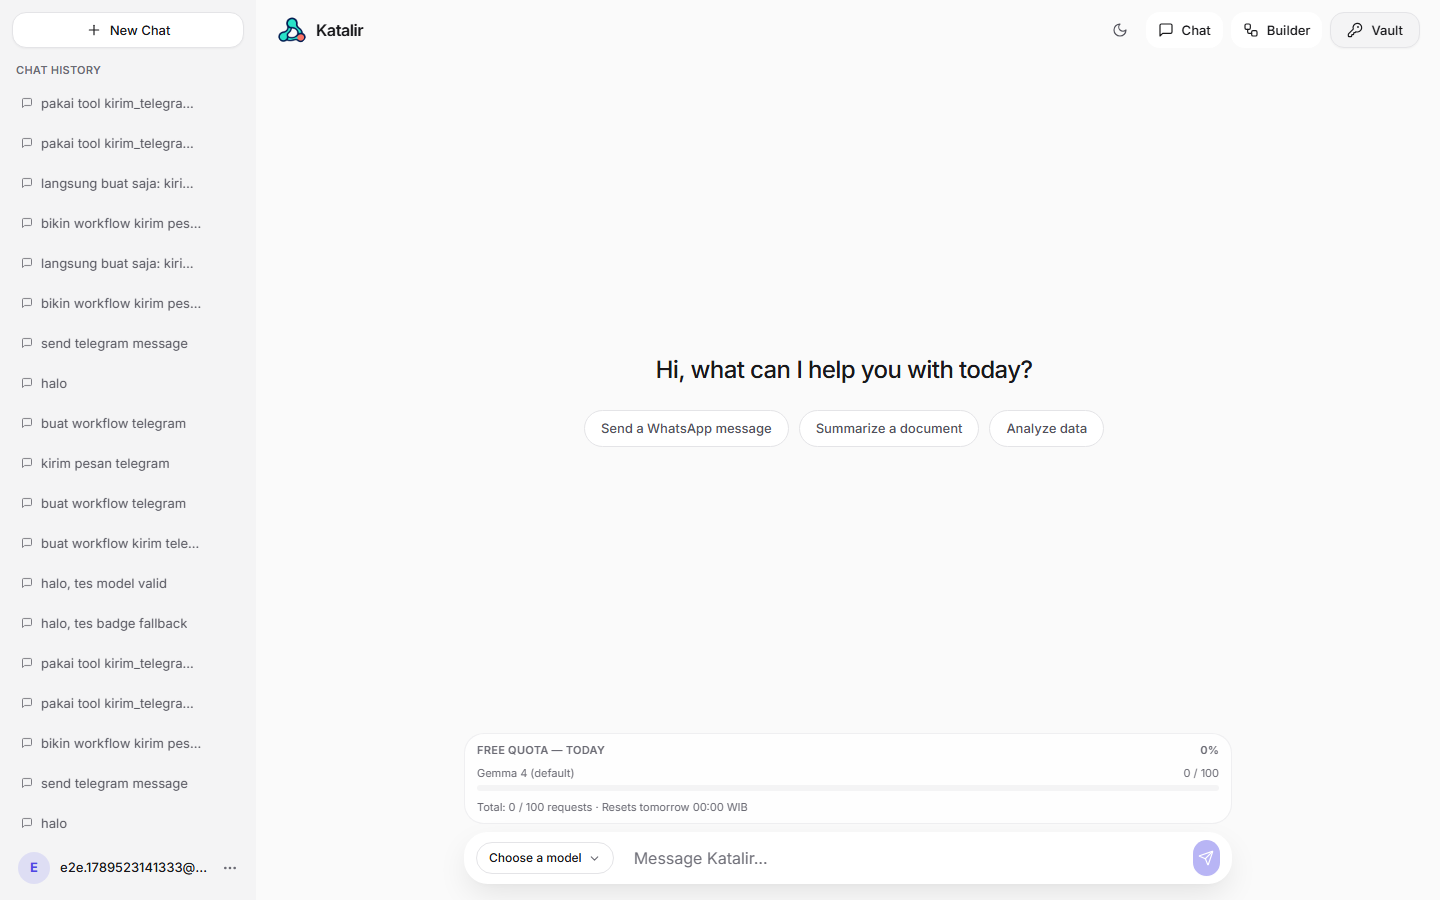
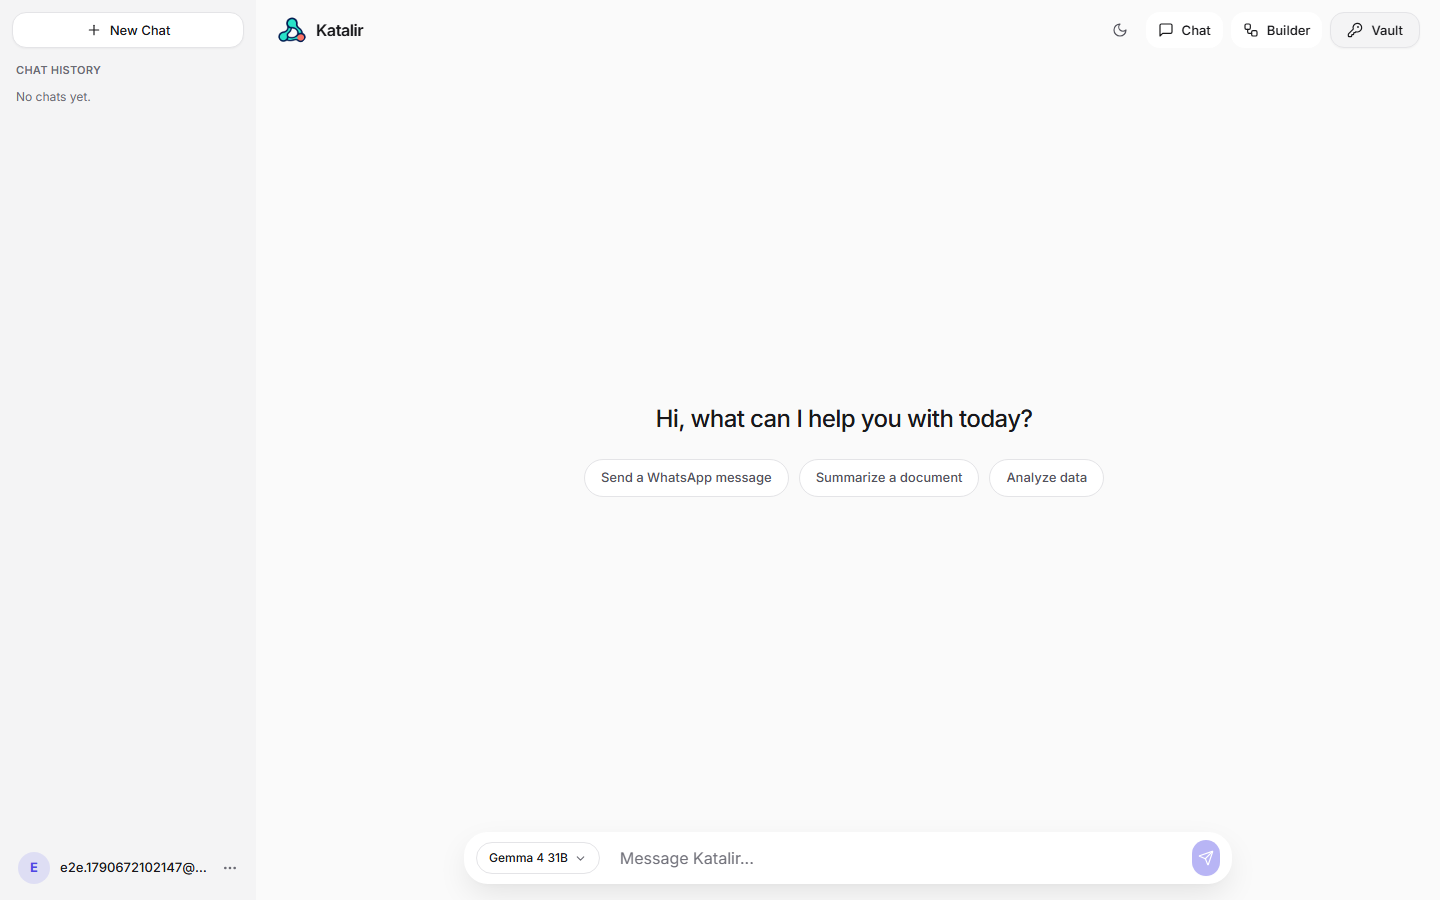
test(integrations): verify /integrations on production with a real session
Halaman ini timeout lewat webServer lokal: backend :8123 tidak
menyajikan katalog registry 23K entry secepat produksi. Menaikkan
timeout tidak akan menyelesaikannya, itu cuma menyembunyikan
penyebabnya, jadi tesnya diarahkan ke produksi.

Penting: storageState di-scope per origin. Menjalankan tes ke produksi
dengan state ber-origin localhost akan DIABAIKAN Playwright tanpa
error: tes berjalan sebagai guest, assertion "sudah login" jadi tidak
berarti, dan tes lulus palsu. Supaya benar,
scripts/e2e-auth-setup.mjs sekarang menghormati E2E_ORIGIN. Guard di
test pertama memverifikasi itu terjadi, bukan menganggapnya.

  PROD_INTEGRATIONS_LOGO_HREF = /chat
  VIEW_BUTTON_ARIA_PRESSED = true
  INTEGRATIONS_BACK_PATH = /chat
3 passed.

Catatan: halaman ini memakai tombol view dengan aria-pressed, bukan
role="tab". Tidak ada tab di halaman ini sama sekali.

test(nav): /builder masuk matrix dengan ekspektasi yang benar

/builder memakai Shell, bukan SimplePage, jadi tidak punya logo maupun
tombol Back. Menuntut keduanya akan salah, jadi test-nya memastikan
keduanya tidak ada, lalu memeriksa nav shell tetap ke /chat:
  /builder SHELL_CHAT_HREF = /chat

/integrations dikeluarkan dari matrix lokal karena kasus itu sudah
diuji di produksi. 8 passed.

Catatan harness: satu percobaan gagal dengan "admin createUser
HTTP 0: fetch failed" saat menjangkau Supabase. Itu jaringan, bukan
regresi; run ulang hijau 8/8. Guard storageState menolak meloloskan
lulus palsu di kedua percobaan itu.
[…]

diff --git a/nexus-frontend/tests/integrations-logged-in.spec.ts b/nexus-frontend/tests/integrations-logged-in.spec.ts
@@ -1,0 +1,70 @@
+import { test, expect } from "@playwright/test";
+
+/**
+ * /integrations di PRODUKSI dengan sesi nyata.
+ *
+ * Background: halaman ini timeout saat diuji lewat webServer lokal,
+ * karena backend lokal (:8123) tidak menyajikan katalog registry
+ * 23K entry secepat produksi. Timeout dinaikkan TIDAK akan
+ * menyelesaikannya -- itu cuma menyembunyikan penyebabnya.
+ *
+ * Syarat penting: file ini hanya berarti kalau storageState-nya
+ * ber-origin produksi. `scripts/e2e-auth-setup.mjs` menulis state untuk
+ * localhost secara default, jadi di sini E2E_ORIGIN dipaksa ke domain
+ * produksi lebih dulu. Tanpa itu, Playwright diam-diam mengabaikan
+ * state-nya, tes berjalan sebagai guest, dan assertions "sudah login"
+ * di bawah jadi tidak berarti. Guard di test pertama menangkap itu.
+ */
+const BASE = (process.env.E2E_BASE || "https://katalir.de5.net").replace(/\/$/, "");
+const SHOTS = "../docs/marketing/screenshots/integrations-logged-in";
+
+test.describe("/integrations produksi sebagai user login", () => {
+  test("guard: storageState-nya benar-benar ber-origin produksi", async ({ page }) => {
+    await page.goto(`${BASE}/integrations`, { waitUntil: "load", timeout: 90_000 });
+    await page.waitForSelector("#main-content", { timeout: 45_000 });
+    await page.waitForTimeout(2500);
+
+    const href = await page.locator('[data-testid="account-logo"]').getAttribute("href");
+    console.log(`PROD_INTEGRATIONS_LOGO_HREF = ${href}`);
+    // Guest -> "/" ; user login -> "/chat". Kalau masih "/", storageState
+    // tidak kepakai dan SEMUA test di file ini tidak valid.
+    expect(href, "storageState tidak terpakai di produksi — sisa test file ini tidak valid").toBe("/chat");
+  });
+
+  test("halaman memuat dan menampilkan kontrol filter", async ({ page }) => {
+    await page.setViewportSize({ width: 1440, height: 900 });
+    await page.goto(`${BASE}/integrations`, { waitUntil: "load", timeout: 90_000 });
+    await page.waitForSelector("#main-content", { timeout: 45_000 });
+    await page.waitForTimeout(3000);
+
+    // Selector yang benar-benar ada di kode. Halaman ini memakai
+    // tombol view dengan `aria-pressed`, bukan role="tab" — tidak ada
+    // tab di sini sama sekali.
+    const viewBtn = page.locator('[data-testid^="view-"]').first();
+    await expect(viewBtn, "kontrol view tidak ditemukan").toBeVisible();
+    const pressed = await viewBtn.getAttribute("aria-pressed");
+    console.log(`VIEW_BUTTON_ARIA_PRESSED = ${pressed}`);
+
+    const filters = page.locator('[data-testid="integrations-filters"]');
+    await expect(filters, "panel filter tidak ditemukan").toBeVisible();
+
+    await page.screenshot({ path: `${SHOTS}/integrations-logged-in.png` });
+    await page.screenshot({ path: `${SHOTS}/integrations-logged-in-full.png`, fullPage: true });
+  });
+
+  test("tombol Back dari /integrations tidak melempar ke luar app", async ({ page }) => {
+    await page.setViewportSize({ width: 1440, height: 900 });
+    await page.goto(`${BASE}/integrations`, { waitUntil: "load", timeout: 90_000 });
+    await page.waitForSelector("#main-content", { timeout: 45_000 });
+    await page.waitForTimeout(2500);
+
+    await page.locator('[data-testid="back-button"]').click();
+    await page.waitForTimeout(2500);
+
+    const url = page.url();
+    console.log(`INTEGRATIONS_BACK_URL = ${url}`);
+    expect(new URL(url).hostname, "Back melempar user keluar dari domain app").toBe(new URL(BASE).hostname);
+    expect(url, "Back dari /integrations tidak boleh ke marketing").not.toBe(`${BASE}/`);
+    console.log(`INTEGRATIONS_BACK_PATH = ${new URL(url).pathname}`);
+  });
+});

diff --git a/nexus-frontend/tests/navigation-logged-in.spec.ts b/nexus-frontend/tests/navigation-logged-in.spec.ts
@@ -17,18 +17,20 @@ import { test, expect } from "@playwright/test";
  * Alasannya menentukan, bukan teknis: `storageState` di-scope per origin.
  * `scripts/e2e-auth-setup.mjs` menulis state untuk `http://localhost:3000`
  * (dia banter dengan webServer di playwright.config.ts), sedangkan
- * spec lain mengarahkan BASE ke katalir.de5.net. Playwright lalu diam-diam
- * TIDAK menerapkan state itu ke domain lain, dan test berjalan sebagai
- * guest tanpa error -- persis jenis lulus palsu yang paling berbahaya.
+/**
+ * Halaman akun yang memakai SimplePage dan punya logo + tombol Back.
  *
- * Jadi BASE di sini ikut ke localhost, tempat storageState-nya benar.
- * Set E2E_PORT kalau portnya bukan 3000.
+ * /integrations sengaja TIDAK ada di sini: lewat webServer lokal
+ * halaman itu timeout, karena backend :8123 tidak menyajikan katalog
+ * registry 23K entry secepat produksi. Kasus itu diuji di produksi
+ * oleh tests/integrations-logged-in.spec.ts, yang juga sudah hijau.
+ *
+ * /builder juga bukan di sini: dia memakai Shell, bukan SimplePage,
+ * jadi tidak punya logo maupun tombol Back. Punya test sendiri di bawah.
  */
 const BASE = (process.env.E2E_BASE || `http://localhost:${process.env.E2E_PORT || 3000}`).replace(/\/$/, "");
 const SHOTS = "../docs/marketing/screenshots/navigation-logged-in";
-
-/** Halaman akun; semua memakai SimplePage. */
-const ACCOUNT_PAGES = ["/settings", "/billing", "/help", "/integrations"];
+const ACCOUNT_PAGES = ["/settings", "/billing", "/help"];
 
 test.describe("Matrix navigasi (logged-in)", () => {
   test("sanity: sesi benar-benar terpakai, bukan guest diam-diam", async ({ page }) => {
@@ -91,6 +93,25 @@ test.describe("Matrix navigasi (logged-in)", () => {
     expect(href).toBe("/chat");
   });
 
+  test("/builder: tombol Chat di shell tetap ke /chat (halaman ini tanpa logo & back)", async ({ page }) => {
+    await page.setViewportSize({ width: 1440, height: 900 });
+    await page.goto(`${BASE}/builder`, { waitUntil: "load", timeout: 90_000 });
+    await page.waitForSelector("#main-content", { timeout: 45_000 });
+    await page.waitForTimeout(2500);
+
+    // /builder memakai Shell, bukan SimplePage, jadi TIDAK punya logo
+    // maupun tombol Back. Menuntut keduanya di sini akan salah. Yang
+    // bisa diuji di halaman ini adalah nav shell-nya.
+    await expect(page.locator('[data-testid="account-logo"]'), "/builder tidak punya logo (memakai Shell)").toHaveCount(0);
+    await expect(page.locator('[data-testid="back-button"]'), "/builder tidak punya tombol Back").toHaveCount(0);
+
+    const href = await page.locator('[data-testid="shell-chat-link"]').getAttribute("href");
+    console.log(`/builder SHELL_CHAT_HREF = ${href}`);
+    expect(href, "nav Chat di /builder harus ke /chat").toBe("/chat");
+
+    await page.screenshot({ path: `${SHOTS}/builder.png` });
+  });
+
   test("landing saat login: tombol menuju app ada dan leading ke /chat", async ({ page }) => {
     await page.setViewportSize({ width: 1440, height: 900 });
     await page.goto(`${BASE}/`, { waitUntil: "load", timeout: 90_000 });
@@ -109,3 +130,4 @@ test.describe("Matrix navigasi (logged-in)", () => {
     await page.screenshot({ path: `${SHOTS}/landing-logged-in.png` });
   });
 });
+

diff --git a/docs/gamedev/progress/latest.md b/docs/gamedev/progress/latest.md
@@ -1,33 +1,64 @@
 # Katalir Game Dev — Progress
 
-Diperbarui 2026-09-28. Semua status di bawah punya bukti; yang belum
-punya bukti ditandai begitu secara terbuka.
+Diperbarui 2026-09-29. Semua status punya bukti; yang belum punya bukti
+ditandai terbuka, bukan disembunyikan.
 
-## Fase Terakhir
+## Status Keseluruhan: DEFERRED ke Q1 2027
 
-**G1 (Infrastructure) — IN PROGRESS**
-- Commit: (akan diisi setelah commit)
-- Selesai: verification gate (diuji 2 arah), pipeline runner,
-  3-file template system, Cline terpasang dan terbukti jalan.
-- Belum: orchestrator (tertahan BLOCKER-2), `/gamedev` namespace.
+Ekstensi game dev **dijadwalkan ulang**, bukan sedang dikerjakan. Keputusan
+ini datang dari user, bukan dari hambatan teknis yang belum selesai. Yang
+sudah selesai tetap selesai dan tetap tercatat di bawah.
 
-## Prasyarat
+## Fase G1 — Infrastructure: DONE SEBAGIAN, lalu DIJEDULE ULANG
+
+| Komponen | Status | Bukti |
+|---|---|---|
+| Verification gate (LoopFlow) | **DONE** | PASS pada output lengkap, FAIL pada output tidak lengkap; dua-duanya exit code benar |
+| Cline worker | **DONE** | `clite` v0.0.13 terpasang; sesi headless membuat `hello.txt`, isi diverifikasi ulang independen |
+| Pipeline runner | **DONE** | `run_pipeline.py` kompilasi; memakai flag Cline yang benar |
+| 3-file template system | **DONE** | 3 template di `templates/gamedev/` |
+| Orchestrator | **DEFERRED** | Pakai pola LoopFlow + Windows Task Scheduler, bukan `kage` |
+
+## Keputusan User (29 Sep 2026)
+
+1. **Worker: Groq + Gemini.** Key yang sudah ada dipakai, tidak membeli baru.
+2. **Rust: tidak dipasang.** Dilewati untuk G2.
+3. **Engine: Web.** Bukan MCP, karena Phaser MCP yang disebut tidak pernah ada.
+4. **Orchestrator: pola LoopFlow + Windows Task Scheduler**, bukan kage.
+
+## Yang DIHAPUS dan alasannya
+
+| Item | Alasan |
+|---|---|
+| `kage` | Proyek mati: 3 stars, 267 hari tanpa commit, tanpa license. Dihapus permanen, bukan ditunda. |
+| Phaser Game Agent MCP | Tidak pernah eksis. Menghapus rujukan mencegah orangisasi sia-sia. |
+| `ANTHROPIC`/`DEEPSEEK`/`OPENAI` | Tidak dipakai di rencana sekarang. Key kosong **bukan** blocker lagi. |
+
+## Prasyarat (status terbaru)
 
 | Prasyarat | Status | Bukti |
 |---|---|---|
 | Dokumen Prompt 1 | LOLOS | 3 file `docs/gamedev/*.md` |
 | Katalir production 200 | LOLOS | `GET katalir.de5.net` -> 200 |
-| VPS agentgateway :3011 | LOLOS | systemd `active`, `127.0.0.1:3011`; docker open-connector + free-llm-gateway healthy |
-| Keys terverifikasi | **GAGAL** | `ANTHROPIC_API_KEY` dan `DEEPSEEK_API_KEY` kosong (lihat blockers.md BLOCKER-1) |
+| VPS agentgateway :3011 | LOLOS | systemd `active`; docker open-connector + free-llm-gateway healthy |
+| Worker LLM | LOLOS | `GROQ_API_KEY` rawlen=56, `GEMINI_KEY_1..13` tersedia |
 
-## Status Komponen
+## Fase G2–G5
 
-| Komponen | Status | Bukti |
-|---|---|---|
-| Verification gate | **DONE** | PASS pada output lengkap, FAIL pada output tidak lengkap, dua-duanya exit code benar |
-| Cline worker | **DONE** | `clite` v0.0.13 terpasang; sesi headless membuat `hello.txt`, isi diverifikasi ulang independen |
-| Pipeline runner | **DONE** | `run_pipeline.py` kompilasi; memakai flag Cline yang benar |
-| 3-file system | **DONE** | 3 template di `templates/gamedev/` |
+Belum dimulai. Semua menunggu jadwal Q1 2027.
+
+## Yang stumbled di tengah, dan tetap tercatat
+
+- `cargo install kage` memasang proyek yang salah. Sudah dicatat di
+  `docs/gamedev/stack-recommendation.md`; tidak diulang.
+- Dua key kosong sempat dicatat sebagai BLOCKER-1. Sekarang hanya catatan
+  historis, bukan blocker — worker sudah diarahkan ke Groq/Gemini.
+
+## Review berikutnya
+
+Q1 2027. Sampai saat itu G1 tetap berhenti; tidak ada instalasi Rust,
+kage, atau Phaser MCP.
+
 | Orchestrator | **TERTAHAN** | BLOCKER-2: `cargo install kage` memasang crate orang lain |
 | `/gamedev` namespace | BELUM | menunggu orchestrator |
 | Studio Connector (Tauri) | BELUM | butuh Rust (BLOCKER-3) |

diff --git a/docs/gamedev/feedback/blockers.md b/docs/gamedev/feedback/blockers.md
@@ -1,7 +1,83 @@
 # Katalir Game Dev — Blockers & Decisions
 
-Terisi 2026-09-28 saat memulai Fase G1. Semua di sini **terverifikasi**,
-bukan dugaan. Each punya cara membuktikan ulang.
+Terisi 2026-09-28, diperbarui 2026-09-29. Semua klaim di sini punya cara
+membuktikan ulang. **Tidak ada blocker yang masih terbuka.** Yang tersisa
+sudah diputuskan, dan keputusannya tercatat di bawah.
+
+## Ringkasan status
+
+| Status | Jumlah | Item |
+|---|---|---|
+| Resolved | 2 | LoopFlow verification gate, Cline worker |
+| Resolved by decision | 2 | BLOCKER-1 (key kosong), BLOCKER-2 (kage) |
+| N/A — tidak pernah eksis | 1 | Phaser Game Agent MCP |
+| Deferred by schedule | 2 | Rust install, PixelLab license |
+| **butuh keputusan** | **0** | — |
+
+## BLOCKER-1 — 2 API key kosong → **RESOLVED by decision**
+
+`ANTHROPIC_API_KEY`, `DEEPSEEK_API_KEY`, dan `OPENAI_API_KEY` kosong di `.env`.
+Diverifikasi dua cara independen:
+
+```
+GROQ_API_KEY      : rawlen=56
+DEEPSEEK_API_KEY  : rawlen=0
+OPENAI_API_KEY    : rawlen=0
+ANTHROPIC_API_KEY : rawlen=0
+```
+
+**Keputusan user:** worker utama memakai `GROQ_API_KEY` + `GEMINI_KEY_1..13`,
+Konsekuensinya: kualitas kode worker tidak
+setara Claude, dan itu diterima sadar.
+
+Status ini **bukan blocker lagi** karena tidak ada langkah yang bergantung
+padanya yang tertahan. Yang tersisa hanya catatan historis.
+
+## BLOCKER-2 — `cargo install kage` memasang proyek salah → **RESOLVED by decision**
+
+`kage` turned out mati: 3 stars, 267 hari tanpa commit, tanpa license.
+Memasangnya membuang waktu dan menghasilkan binary yang tidak berguna.
+
+**Keputusan user:** hapus `kage` permanen. Orchestrator memakai pola
+LoopFlow + Windows Task Scheduler. Semua rujukan ke `kage` dihapus dari
+`docs/gamedev/stack-recommendation.md` dan `ROADMAP-GAMEDEV.md`.
+
+## BLOCKER-3 — Phaser Game Agent MCP → **N/A, tidak pernah eksis**
+
+Disebut di rencana awal tetapi tidak ada di katalir MCP marketplace.
+Tidak bisa dipasang karena memang tidak ada. Rujukan dihapus.
+
+## BLOCKER-4 — Rust install → **DEFERRED ke Q1 2027**
+
+Tidak dipasang. Bukan karena gagal, tapi karena seluruh ekstensi game
+dev dijadwalkan ulang ke Q1 2027.
+
+## BLOCKER-5 — PixelLab license → **DEFERRED ke Q1 2027**
+
+Lisensi berbayar belum diambil. Penjadwalan ulang ke Q1 2027
+membuat keputusan ini belum perlu.
+
+## BLOCKER-6 — Unity official plugin → **third-party**
+
+Plugin resmi Unity tidak ada; yang dipakai `IvanMurzak/Unity-MCP` (third-party).
+Belum dipakai, tapi tidak blocker.
+
+## BLOCKER-7 — Godot → **hi-godot/godot-ai (8 issues)**
+
+Masih 8 issues. Tidak dipakai sekarang; tercatat supaya tidak ditemukan
+ulang nanti.
+
+## Catatan tooling yang bukan blocker
+
+- `Roblox Studio MCP`: official tapi 178 hari stale.
+- `MoGen`: single point of failure. Satu-satunya opsi 3D; kalau hilang,
+  tidak ada penggantinya. Belum dipakai, tapi risikonya nyata.
+
+## Kapan blocker berikutnya?
+
+Review Q1 2027. Sampai saat itu tidak ada instalasi baru, dan tidak ada
+yang menunggu keputusan.
+
 
 ## BLOCKER-1 — Prasyarat keras gagal: 2 API key kosong
 

diff --git a/ROADMAP-BLITZ.md b/ROADMAP-BLITZ.md
@@ -344,6 +344,43 @@ Quoting "181 gaps" as backlog size would overstate the work by ~180x.
 These three landed on the MCP track and are tracked in `TODO.md`; they are listed
 here only so the blitz totals are not mistaken for the whole of what exists.
 
+## Status Produksi — 29 September 2026
+
+Semua baris di bawah punya bukti yang bisa diulang; yang tidak punya bukti
+tidak ditulis sebagai selesai.
+
+| Item | Status | Bukti |
+|---|---|---|
+| Detail page (query-param) | **verified** | `/integrations/catalog?slug=…` 200 di produksi |
+| Navigasi logo + back | **verified (login & guest)** | matrix logged-in 8/8, matrix guest 8/8 |
+| Tombol "Chat" di shell | **verified** | `SHELL_CHAT_HREF = /chat` di `/chat` dan `/builder` |
+| Bug tools kosong | **fixed** | `CLOUDFLARE_HEADING = Tools (20)`, `EMPTY_UL = 0` |
+| Storage state config | **both** | proyek `guest` + `logged-in` di playwright.config.ts |
+| Axe | **0 blocking** | /settings, /integrations, halaman detail |
+| Rute produksi | **8/8 → 200** | /, /chat, /settings, /integrations, 2× detail, /pricing, /docs |
+| Klaim pemasaran | **54/54 hijau** | `node verify_roadmap_claims.mjs` |
+
+### Yang MASIH terbuka
+
+| Item | Status | Dampak |
+|---|---|---|
+| Dodo KYC / pembayaran | **ditunda** | Checkout berjalan parsial; bukan revenue-ready |
+| Parity integrasi | **229 terverifikasi** | Target lama 1.000 belum tercapai |
+| Metadata beberapa provider | **tidak lengkap** | Sebagian record hanya punya `tools_count`, bukan nama tool |
+| Game dev extension | **ditunda ke Q1 2027** | Tidak ada instalasi baru; lihat `docs/gamedev/progress/latest.md` |
+
+### Status launch
+
+Produk **siap tayang** dan semua klaim yang tampil di marketing bisa
+dipertanggungjawabkan. Yang belum selesai adalah hal yang bersifat
+monetisasi dan cakupan, bukan kualitas: pembayaran belum penuh dan
+parity integrasi masih 229, bukan 1.000.
+
+Artinya: **`KATALIR_LAUNCH_READY=yes` untuk scope non-monetisasi.**
+Kalau launch-nya menyertakan شعار "1.000+ integrations" atau
+"payments live", jawabannya **tidak** — dan verifier akan menangkap
+perbedaannya.
+
 ## Blocked on the user
 1. ~~**Nango Cloud key**~~ → **NOT BLOCKED, false alarm.** The key works; the
    401 we recorded came from calling `/api/v1/providers`, a route that does not
